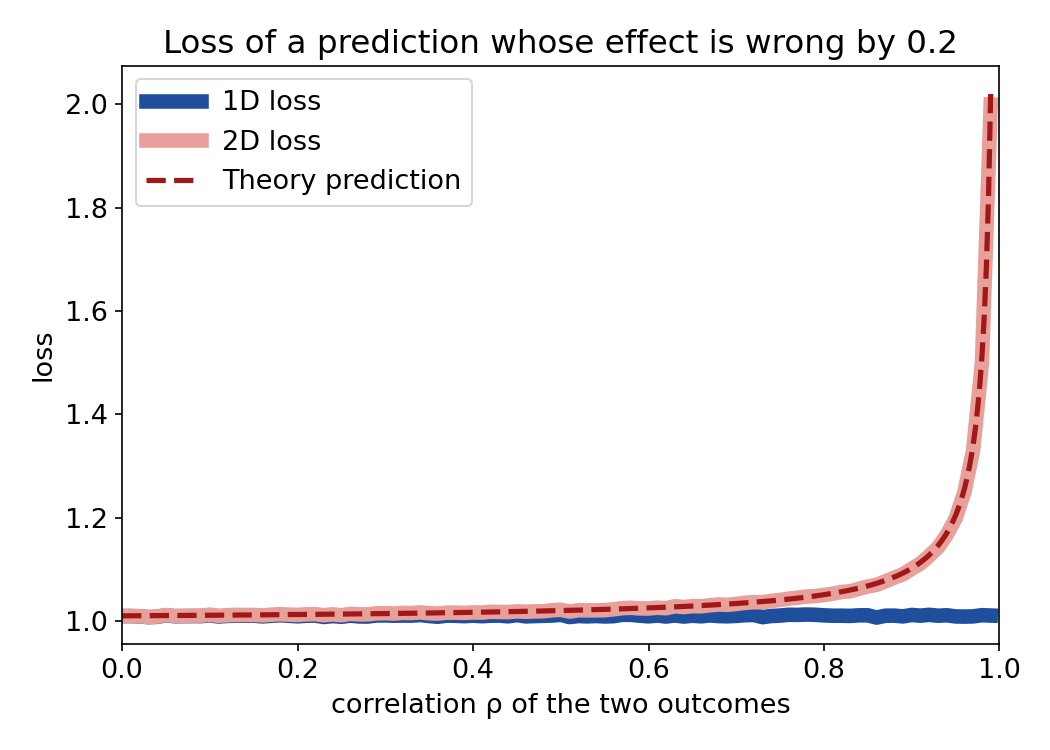
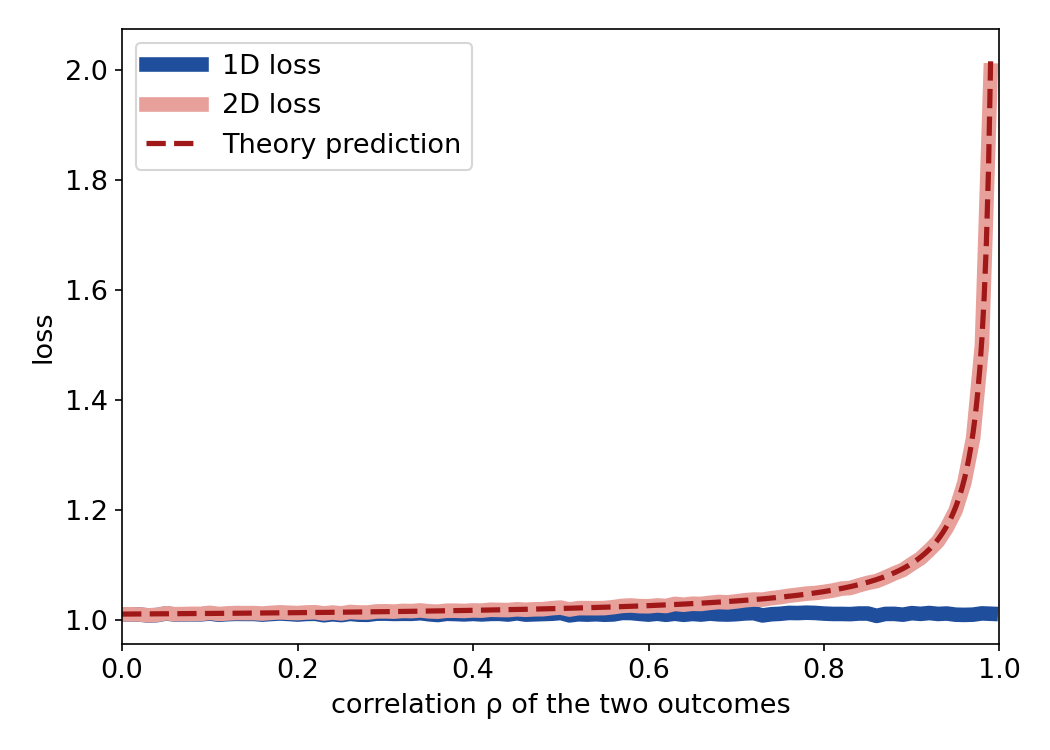
reason figure: no title
Claude-Session: https://claude.ai/code/session_01AZV2d6TbWGuV4cMQVAXpNa

diff --git a/revision/theory/loss_geometry/fig_reason.py b/revision/theory/loss_geometry/fig_reason.py
@@ -26,8 +26,7 @@ fig, ax = plt.subplots(figsize=(7, 5))
 ax.plot(rhos, L1, "-", color="#1f4e9c", lw=7, label="1D loss")
 ax.plot(rhos, L2, "-", color="#e8a09a", lw=7, label="2D loss")
 ax.plot(fine, theory, "--", color="#a01818", lw=2.5, label="Theory prediction")
-ax.set(xlabel="correlation ρ of the two outcomes", ylabel="loss", xlim=(0, 1),
-       title="Loss of a prediction whose effect is wrong by 0.2")
+ax.set(xlabel="correlation ρ of the two outcomes", ylabel="loss", xlim=(0, 1))
 ax.legend(fontsize=13, loc="upper left"); 
 fig.tight_layout()
 for ext in ("png", "pdf"): fig.savefig(os.path.join(OUT, f"reason.{ext}"), dpi=150)
